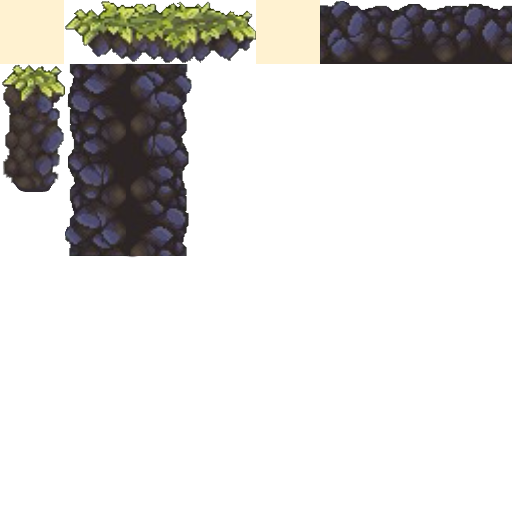
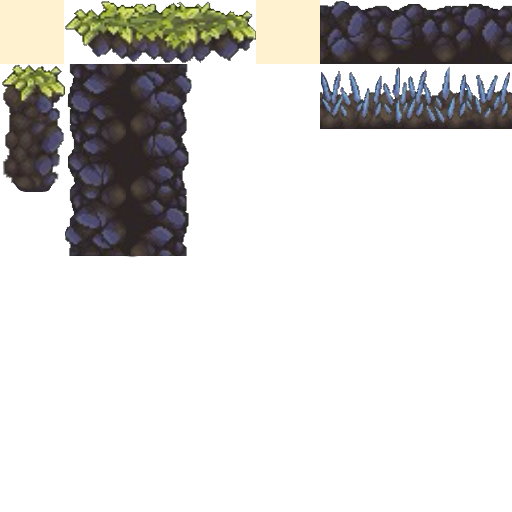
特定のブロックにダメージ判定がある処理の追加

Changed region(s): [[0.625, 0.125, 1.0, 0.25]]

diff --git a/Source/GameConstants.h b/Source/GameConstants.h
@@ -55,6 +55,13 @@ namespace BlockMapGraphPath
 	static const std::string BlockMap = "Resource/Map/image_Map.png"; // ブロックマップの画像
 }
 
+// ブロックマップの当たり判定の設定
+namespace BlockCollision
+{
+	static const int MinDamageBlock = 13; // ダメージ判定があるブロックの最小値
+	static const int MaxDamageBlock = 15; // ダメージ判定があるブロックの最大値
+}
+
 // 読み込むCSVパス
 namespace CsvPath
 {
@@ -62,6 +69,7 @@ namespace CsvPath
 	static const std::string TutorialText = "Resource/TutorialText/tutorialTextData.csv"; // チュートリアルテキストのCSV
 }
 
+// よく使う色
 namespace ColorOption
 {
 	static const int White = GetColor(240, 240, 240);

diff --git a/Source/CharacterPhysics.h b/Source/CharacterPhysics.h
@@ -24,4 +24,5 @@ public:
 		float gravity,      // 重力
 		float moveSpeed     // 移動スピード
 	);
+
 };
